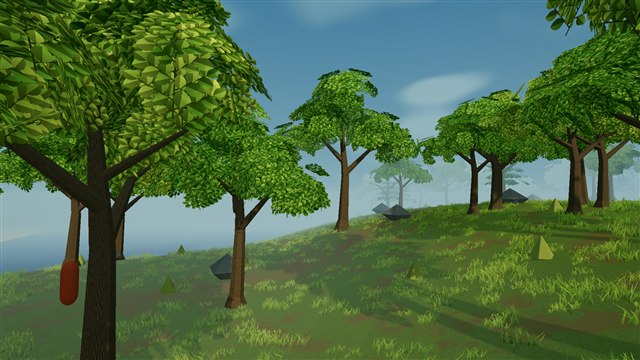
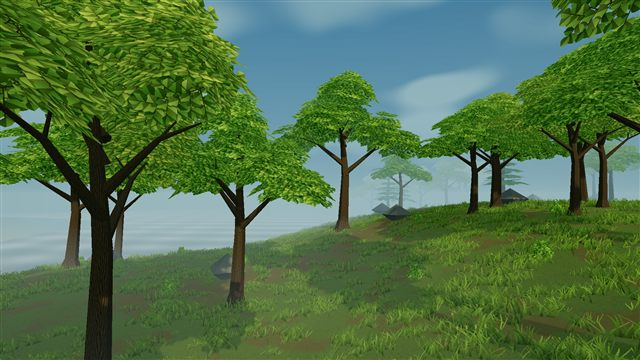
Publish ten forest, shoreline, and shelter lighting studies

diff --git a/index.html b/index.html
@@ -1,29 +1,16 @@
 <!doctype html>
-<html lang="en">
-<head>
-  <meta charset="utf-8">
-  <meta name="viewport" content="width=device-width, initial-scale=1">
-  <meta name="theme-color" content="#101a15">
-  <meta name="description" content="Latest in-engine environment screenshots from the Survival game prototype.">
-  <title>Survival — Environment Gallery</title>
-  <link rel="stylesheet" href="style.css">
-</head>
-<body>
-  <header class="wrap masthead"><a class="brand" href="index.html">SURVIVAL <span>DEVELOPMENT GALLERY</span></a><span class="edition">26 OCT 2026</span></header>
-  <main class="wrap">
-    <section class="intro">
-      <p class="eyebrow">ENVIRONMENT STUDY / 01</p>
-      <h1>Into the clearing.</h1>
-      <p class="lead">The latest in-engine views of our survival game prototype: textured foliage, fine grass, and a misty forest edge.</p>
-      <p class="hint">Choose a view. Tap its image for the full-resolution screenshot.</p>
-    </section>
-    <section class="gallery" aria-label="Environment screenshots">
-      <a class="card" href="clearing.html"><img src="images/clearing-thumb.jpg" width="640" height="360" alt="Third-person view across a grassy forest clearing with leafy trees" fetchpriority="high"><div class="card-body"><span class="number">01 / CLEARING</span><h2>The first steps</h2><p>The playable camera view through the meadow.</p><span class="open">Open view <span aria-hidden="true">↗</span></span></div></a>
-      <a class="card" href="canopy.html"><img src="images/canopy-thumb.jpg" width="640" height="360" alt="Close view of textured bark and overlapping leaf sprays" loading="lazy"><div class="card-body"><span class="number">02 / CANOPY</span><h2>Under the leaves</h2><p>Leaf silhouettes, branches, and atmospheric depth.</p><span class="open">Open view <span aria-hidden="true">↗</span></span></div></a>
-      <a class="card" href="grass.html"><img src="images/grass-thumb.jpg" width="640" height="360" alt="Low camera angle through curved grass blades toward the forest" loading="lazy"><div class="card-body"><span class="number">03 / GROUND COVER</span><h2>A closer look</h2><p>Fine grass sprays and ground textures at a low angle.</p><span class="open">Open view <span aria-hidden="true">↗</span></span></div></a>
-    </section>
-    <aside class="note"><strong>A work in progress.</strong> These are development screenshots of original procedural assets. This gallery contains screenshots; it is not a playable mobile version of the game.</aside>
-  </main>
-  <footer class="wrap footer">SURVIVAL <span>Environment development · October 26, 2026</span></footer>
-</body>
-</html>
+<html lang="en"><head><meta charset="utf-8"><meta name="viewport" content="width=device-width, initial-scale=1"><meta name="theme-color" content="#101a15"><meta name="description" content="Ten in-engine forest, coast, and shelter screenshots from the Survival prototype."><title>Survival - Environment Gallery</title><link rel="stylesheet" href="style.css?v=2"></head>
+<body><header class="wrap masthead"><a class="brand" href="index.html">SURVIVAL <span>DEVELOPMENT GALLERY</span></a><span class="edition">ENVIRONMENT STUDY 02</span></header>
+<main class="wrap"><section class="intro"><p class="eyebrow">FOREST / COAST / SHELTER</p><h1>A world in different light.</h1><p class="lead">Ten fresh in-engine views: revised tree crowns, fuller ground cover, coastal water, and the first shelter lighting studies.</p><p class="hint">Choose a view. Tap its image for the full-resolution screenshot. The canopy page also includes the earlier build for comparison.</p></section>
+<section class="gallery" aria-label="Environment screenshots"><a class="card" href="clearing.html"><img src="images/clearing-thumb.jpg?v=2" width="640" height="360" alt="The ordinary player camera, with fuller grass and revised trees." fetchpriority="high"><div class="card-body"><span class="number">DAY / PLAYABLE VIEW</span><h2>Through the clearing</h2><p>The ordinary player camera, with fuller grass and revised trees.</p><span class="open">Open view <span aria-hidden="true">&#8599;</span></span></div></a>
+<a class="card" href="canopy.html"><img src="images/canopy-thumb.jpg?v=2" width="640" height="360" alt="Irregular crowns, finer leaf sprays, and stronger branch structure. Compare the earlier study below." loading="lazy"><div class="card-body"><span class="number">DAY / CANOPY COMPARISON</span><h2>Under the branches</h2><p>Irregular crowns, finer leaf sprays, and stronger branch structure. Compare the earlier study below.</p><span class="open">Open view <span aria-hidden="true">&#8599;</span></span></div></a>
+<a class="card" href="grass.html"><img src="images/grass-thumb.jpg?v=2" width="640" height="360" alt="Mixed grass heights, small pale flowers, and a shared ground palette." loading="lazy"><div class="card-body"><span class="number">DAY / GROUND DETAIL</span><h2>At meadow height</h2><p>Mixed grass heights, small pale flowers, and a shared ground palette.</p><span class="open">Open view <span aria-hidden="true">&#8599;</span></span></div></a>
+<a class="card" href="coast.html"><img src="images/coast-thumb.jpg?v=2" width="640" height="360" alt="The shoreline and a simple ripple-lighting water study. Water remains visual only." loading="lazy"><div class="card-body"><span class="number">DAY / COAST</span><h2>Where the meadow meets water</h2><p>The shoreline and a simple ripple-lighting water study. Water remains visual only.</p><span class="open">Open view <span aria-hidden="true">&#8599;</span></span></div></a>
+<a class="card" href="ridge.html"><img src="images/ridge-thumb.jpg?v=2" width="640" height="360" alt="A wide coastal panorama with mixed tree silhouettes and distant mist." loading="lazy"><div class="card-body"><span class="number">DAY / LANDSCAPE</span><h2>Across the forest edge</h2><p>A wide coastal panorama with mixed tree silhouettes and distant mist.</p><span class="open">Open view <span aria-hidden="true">&#8599;</span></span></div></a>
+<a class="card" href="dawn.html"><img src="images/dawn-thumb.jpg?v=2" width="640" height="360" alt="A curated dawn preset: low warm sunlight, cooler ambient light, and heavier mist." loading="lazy"><div class="card-body"><span class="number">DAWN / LIGHTING STUDY</span><h2>Cool morning mist</h2><p>A curated dawn preset: low warm sunlight, cooler ambient light, and heavier mist.</p><span class="open">Open view <span aria-hidden="true">&#8599;</span></span></div></a>
+<a class="card" href="golden.html"><img src="images/golden-thumb.jpg?v=2" width="640" height="360" alt="A warm low-sun preset for checking foliage volume and long shadows." loading="lazy"><div class="card-body"><span class="number">GOLDEN HOUR / LIGHTING STUDY</span><h2>Late light in the meadow</h2><p>A warm low-sun preset for checking foliage volume and long shadows.</p><span class="open">Open view <span aria-hidden="true">&#8599;</span></span></div></a>
+<a class="card" href="overcast.html"><img src="images/overcast-thumb.jpg?v=2" width="640" height="360" alt="A softer cool-light preset that exposes silhouettes and ground detail without strong sunlight." loading="lazy"><div class="card-body"><span class="number">OVERCAST / LIGHTING STUDY</span><h2>A quieter forest path</h2><p>A softer cool-light preset that exposes silhouettes and ground detail without strong sunlight.</p><span class="open">Open view <span aria-hidden="true">&#8599;</span></span></div></a>
+<a class="card" href="shelter.html"><img src="images/shelter-thumb.jpg?v=2" width="640" height="360" alt="A staged fixture built from the existing foundation, floor, wall, doorway, and flat-roof pieces." loading="lazy"><div class="card-body"><span class="number">DAY / CONSTRUCTION STUDY</span><h2>A shelter in the clearing</h2><p>A staged fixture built from the existing foundation, floor, wall, doorway, and flat-roof pieces.</p><span class="open">Open view <span aria-hidden="true">&#8599;</span></span></div></a>
+<a class="card" href="dusk.html"><img src="images/dusk-thumb.jpg?v=2" width="640" height="360" alt="The same prototype pieces at dusk with a capture-only ember and point-light fixture. Campfire gameplay is not implemented." loading="lazy"><div class="card-body"><span class="number">DUSK / LOCAL LIGHT STUDY</span><h2>Warmth beside the shelter</h2><p>The same prototype pieces at dusk with a capture-only ember and point-light fixture. Campfire gameplay is not implemented.</p><span class="open">Open view <span aria-hidden="true">&#8599;</span></span></div></a></section>
+<aside class="note"><strong>A work in progress.</strong> Original procedural assets, rendered in the game. Dawn, golden-hour, overcast, and dusk images use curated art presets; they do not demonstrate a day/night or weather cycle. Shelter scenes are staged from existing build pieces, and the dusk fire is a lighting fixture. This is a screenshot gallery, not a playable mobile game.</aside></main>
+<footer class="wrap footer">SURVIVAL <span>Environment study 02 - ten views</span></footer></body></html>

diff --git a/canopy.html b/canopy.html
@@ -1,10 +1,7 @@
 <!doctype html>
-<html lang="en">
-<head><meta charset="utf-8"><meta name="viewport" content="width=device-width, initial-scale=1"><meta name="theme-color" content="#101a15"><meta name="description" content="Textured leaf sprays create gaps in the canopy. Bark, branching, and mist establish the forest edge."><title>Under the leaves — Survival Gallery</title><link rel="stylesheet" href="style.css"></head>
-<body>
-<header class="wrap masthead"><a class="brand" href="index.html">SURVIVAL <span>DEVELOPMENT GALLERY</span></a><span class="edition">26 OCT 2026</span></header>
-<main class="wrap"><section class="view-header"><a class="back" href="index.html">← All views</a><p class="eyebrow">02 / CANOPY</p><h1>Under the leaves</h1><p>Textured leaf sprays create gaps in the canopy. Bark, branching, and mist establish the forest edge.</p></section>
-<figure class="image-frame"><a href="images/canopy-full.png" aria-label="Open full-resolution screenshot"><img src="images/canopy.jpg" width="1280" height="720" alt="Textured bark and dense leaf sprays in the forest canopy" fetchpriority="high"></a><figcaption>Tap the image to open the original 1920 × 1080 screenshot. Pinch to zoom in your browser.</figcaption></figure>
-<nav class="view-nav" aria-label="Other screenshots"><a href="clearing.html">← Clearing</a><a class="next" href="grass.html">Ground cover →</a></nav>
-</main><footer class="wrap footer">SURVIVAL <span>Prototype screenshot · October 26, 2026</span></footer>
-</body></html>
+<html lang="en"><head><meta charset="utf-8"><meta name="viewport" content="width=device-width, initial-scale=1"><meta name="theme-color" content="#101a15"><title>Under the branches - Survival Gallery</title><link rel="stylesheet" href="style.css?v=2"></head>
+<body><header class="wrap masthead"><a class="brand" href="index.html">SURVIVAL <span>DEVELOPMENT GALLERY</span></a><span class="edition">ENVIRONMENT STUDY 02</span></header>
+<main class="wrap"><section class="view-header"><a class="back" href="index.html">&#8592; All views</a><p class="eyebrow">DAY / CANOPY COMPARISON</p><h1>Under the branches</h1><p>Irregular crowns, finer leaf sprays, and stronger branch structure. Compare the earlier study below.</p></section>
+<figure class="image-frame"><a href="images/canopy-full.png?v=2"><img src="images/canopy.jpg?v=2" width="1280" height="720" alt="Irregular crowns, finer leaf sprays, and stronger branch structure. Compare the earlier study below." fetchpriority="high"></a><figcaption>Captured in Unity at 1920 &#215; 1080. Tap the image for the original PNG. Lighting variants are curated art presets, not a running day/night or weather system.</figcaption></figure><section class="view-header"><h2>Earlier procedural study</h2><p>The previous canopy capture uses the same camera position. This is an earlier build, not another current lighting preset.</p></section><figure class="image-frame"><a href="images/before-canopy-full.png"><img src="images/before-canopy.jpg" width="1280" height="720" alt="Earlier canopy study with repeated branch shapes and larger leaf patterns" loading="lazy"></a><figcaption>Earlier study. Tap for the original screenshot.</figcaption></figure>
+<nav class="view-nav" aria-label="Screenshot navigation"><a href="clearing.html">&#8592; Through the clearing</a><a class="next" href="grass.html">At meadow height &#8594;</a></nav></main>
+<footer class="wrap footer">SURVIVAL <span>In-engine development captures</span></footer></body></html>

diff --git a/clearing.html b/clearing.html
@@ -1,10 +1,7 @@
 <!doctype html>
-<html lang="en">
-<head><meta charset="utf-8"><meta name="viewport" content="width=device-width, initial-scale=1"><meta name="theme-color" content="#101a15"><meta name="description" content="The third-person view across the forest clearing, with textured foliage, a worn trail, and fine ground cover."><title>The first steps — Survival Gallery</title><link rel="stylesheet" href="style.css"></head>
-<body>
-<header class="wrap masthead"><a class="brand" href="index.html">SURVIVAL <span>DEVELOPMENT GALLERY</span></a><span class="edition">26 OCT 2026</span></header>
-<main class="wrap"><section class="view-header"><a class="back" href="index.html">← All views</a><p class="eyebrow">01 / CLEARING</p><h1>The first steps</h1><p>The third-person view across the forest clearing, with textured foliage, a worn trail, and fine ground cover.</p></section>
-<figure class="image-frame"><a href="images/clearing-full.png" aria-label="Open full-resolution screenshot"><img src="images/clearing.jpg" width="1280" height="720" alt="Third-person view of a misty forest clearing" fetchpriority="high"></a><figcaption>Tap the image to open the original 1920 × 1080 screenshot. Pinch to zoom in your browser.</figcaption></figure>
-<nav class="view-nav" aria-label="Other screenshots"><a href="grass.html">← Ground cover</a><a class="next" href="canopy.html">Canopy →</a></nav>
-</main><footer class="wrap footer">SURVIVAL <span>Prototype screenshot · October 26, 2026</span></footer>
-</body></html>
+<html lang="en"><head><meta charset="utf-8"><meta name="viewport" content="width=device-width, initial-scale=1"><meta name="theme-color" content="#101a15"><title>Through the clearing - Survival Gallery</title><link rel="stylesheet" href="style.css?v=2"></head>
+<body><header class="wrap masthead"><a class="brand" href="index.html">SURVIVAL <span>DEVELOPMENT GALLERY</span></a><span class="edition">ENVIRONMENT STUDY 02</span></header>
+<main class="wrap"><section class="view-header"><a class="back" href="index.html">&#8592; All views</a><p class="eyebrow">DAY / PLAYABLE VIEW</p><h1>Through the clearing</h1><p>The ordinary player camera, with fuller grass and revised trees.</p></section>
+<figure class="image-frame"><a href="images/clearing-full.png?v=2"><img src="images/clearing.jpg?v=2" width="1280" height="720" alt="The ordinary player camera, with fuller grass and revised trees." fetchpriority="high"></a><figcaption>Captured in Unity at 1920 &#215; 1080. Tap the image for the original PNG. Lighting variants are curated art presets, not a running day/night or weather system.</figcaption></figure>
+<nav class="view-nav" aria-label="Screenshot navigation"><a href="dusk.html">&#8592; Warmth beside the shelter</a><a class="next" href="canopy.html">Under the branches &#8594;</a></nav></main>
+<footer class="wrap footer">SURVIVAL <span>In-engine development captures</span></footer></body></html>

diff --git a/grass.html b/grass.html
@@ -1,10 +1,7 @@
 <!doctype html>
-<html lang="en">
-<head><meta charset="utf-8"><meta name="viewport" content="width=device-width, initial-scale=1"><meta name="theme-color" content="#101a15"><meta name="description" content="A low-angle study of curved grass sprays, ground textures, and the tree silhouettes beyond."><title>A closer look — Survival Gallery</title><link rel="stylesheet" href="style.css"></head>
-<body>
-<header class="wrap masthead"><a class="brand" href="index.html">SURVIVAL <span>DEVELOPMENT GALLERY</span></a><span class="edition">26 OCT 2026</span></header>
-<main class="wrap"><section class="view-header"><a class="back" href="index.html">← All views</a><p class="eyebrow">03 / GROUND COVER</p><h1>A closer look</h1><p>A low-angle study of curved grass sprays, ground textures, and the tree silhouettes beyond.</p></section>
-<figure class="image-frame"><a href="images/grass-full.png" aria-label="Open full-resolution screenshot"><img src="images/grass.jpg" width="1280" height="720" alt="Low-angle view of grass blades and surrounding trees" fetchpriority="high"></a><figcaption>Tap the image to open the original 1920 × 1080 screenshot. Pinch to zoom in your browser.</figcaption></figure>
-<nav class="view-nav" aria-label="Other screenshots"><a href="canopy.html">← Canopy</a><a class="next" href="clearing.html">Clearing →</a></nav>
-</main><footer class="wrap footer">SURVIVAL <span>Prototype screenshot · October 26, 2026</span></footer>
-</body></html>
+<html lang="en"><head><meta charset="utf-8"><meta name="viewport" content="width=device-width, initial-scale=1"><meta name="theme-color" content="#101a15"><title>At meadow height - Survival Gallery</title><link rel="stylesheet" href="style.css?v=2"></head>
+<body><header class="wrap masthead"><a class="brand" href="index.html">SURVIVAL <span>DEVELOPMENT GALLERY</span></a><span class="edition">ENVIRONMENT STUDY 02</span></header>
+<main class="wrap"><section class="view-header"><a class="back" href="index.html">&#8592; All views</a><p class="eyebrow">DAY / GROUND DETAIL</p><h1>At meadow height</h1><p>Mixed grass heights, small pale flowers, and a shared ground palette.</p></section>
+<figure class="image-frame"><a href="images/grass-full.png?v=2"><img src="images/grass.jpg?v=2" width="1280" height="720" alt="Mixed grass heights, small pale flowers, and a shared ground palette." fetchpriority="high"></a><figcaption>Captured in Unity at 1920 &#215; 1080. Tap the image for the original PNG. Lighting variants are curated art presets, not a running day/night or weather system.</figcaption></figure>
+<nav class="view-nav" aria-label="Screenshot navigation"><a href="canopy.html">&#8592; Under the branches</a><a class="next" href="coast.html">Where the meadow meets water &#8594;</a></nav></main>
+<footer class="wrap footer">SURVIVAL <span>In-engine development captures</span></footer></body></html>

diff --git a/dusk.html b/dusk.html
@@ -1,0 +1,7 @@
+<!doctype html>
+<html lang="en"><head><meta charset="utf-8"><meta name="viewport" content="width=device-width, initial-scale=1"><meta name="theme-color" content="#101a15"><title>Warmth beside the shelter - Survival Gallery</title><link rel="stylesheet" href="style.css?v=2"></head>
+<body><header class="wrap masthead"><a class="brand" href="index.html">SURVIVAL <span>DEVELOPMENT GALLERY</span></a><span class="edition">ENVIRONMENT STUDY 02</span></header>
+<main class="wrap"><section class="view-header"><a class="back" href="index.html">&#8592; All views</a><p class="eyebrow">DUSK / LOCAL LIGHT STUDY</p><h1>Warmth beside the shelter</h1><p>The same prototype pieces at dusk with a capture-only ember and point-light fixture. Campfire gameplay is not implemented.</p></section>
+<figure class="image-frame"><a href="images/dusk-full.png?v=2"><img src="images/dusk.jpg?v=2" width="1280" height="720" alt="The same prototype pieces at dusk with a capture-only ember and point-light fixture. Campfire gameplay is not implemented." fetchpriority="high"></a><figcaption>Captured in Unity at 1920 &#215; 1080. Tap the image for the original PNG. Lighting variants are curated art presets, not a running day/night or weather system.</figcaption></figure>
+<nav class="view-nav" aria-label="Screenshot navigation"><a href="shelter.html">&#8592; A shelter in the clearing</a><a class="next" href="clearing.html">Through the clearing &#8594;</a></nav></main>
+<footer class="wrap footer">SURVIVAL <span>In-engine development captures</span></footer></body></html>

diff --git a/shelter.html b/shelter.html
@@ -1,0 +1,7 @@
+<!doctype html>
+<html lang="en"><head><meta charset="utf-8"><meta name="viewport" content="width=device-width, initial-scale=1"><meta name="theme-color" content="#101a15"><title>A shelter in the clearing - Survival Gallery</title><link rel="stylesheet" href="style.css?v=2"></head>
+<body><header class="wrap masthead"><a class="brand" href="index.html">SURVIVAL <span>DEVELOPMENT GALLERY</span></a><span class="edition">ENVIRONMENT STUDY 02</span></header>
+<main class="wrap"><section class="view-header"><a class="back" href="index.html">&#8592; All views</a><p class="eyebrow">DAY / CONSTRUCTION STUDY</p><h1>A shelter in the clearing</h1><p>A staged fixture built from the existing foundation, floor, wall, doorway, and flat-roof pieces.</p></section>
+<figure class="image-frame"><a href="images/shelter-full.png?v=2"><img src="images/shelter.jpg?v=2" width="1280" height="720" alt="A staged fixture built from the existing foundation, floor, wall, doorway, and flat-roof pieces." fetchpriority="high"></a><figcaption>Captured in Unity at 1920 &#215; 1080. Tap the image for the original PNG. Lighting variants are curated art presets, not a running day/night or weather system.</figcaption></figure>
+<nav class="view-nav" aria-label="Screenshot navigation"><a href="overcast.html">&#8592; A quieter forest path</a><a class="next" href="dusk.html">Warmth beside the shelter &#8594;</a></nav></main>
+<footer class="wrap footer">SURVIVAL <span>In-engine development captures</span></footer></body></html>

diff --git a/overcast.html b/overcast.html
@@ -1,0 +1,7 @@
+<!doctype html>
+<html lang="en"><head><meta charset="utf-8"><meta name="viewport" content="width=device-width, initial-scale=1"><meta name="theme-color" content="#101a15"><title>A quieter forest path - Survival Gallery</title><link rel="stylesheet" href="style.css?v=2"></head>
+<body><header class="wrap masthead"><a class="brand" href="index.html">SURVIVAL <span>DEVELOPMENT GALLERY</span></a><span class="edition">ENVIRONMENT STUDY 02</span></header>
+<main class="wrap"><section class="view-header"><a class="back" href="index.html">&#8592; All views</a><p class="eyebrow">OVERCAST / LIGHTING STUDY</p><h1>A quieter forest path</h1><p>A softer cool-light preset that exposes silhouettes and ground detail without strong sunlight.</p></section>
+<figure class="image-frame"><a href="images/overcast-full.png?v=2"><img src="images/overcast.jpg?v=2" width="1280" height="720" alt="A softer cool-light preset that exposes silhouettes and ground detail without strong sunlight." fetchpriority="high"></a><figcaption>Captured in Unity at 1920 &#215; 1080. Tap the image for the original PNG. Lighting variants are curated art presets, not a running day/night or weather system.</figcaption></figure>
+<nav class="view-nav" aria-label="Screenshot navigation"><a href="golden.html">&#8592; Late light in the meadow</a><a class="next" href="shelter.html">A shelter in the clearing &#8594;</a></nav></main>
+<footer class="wrap footer">SURVIVAL <span>In-engine development captures</span></footer></body></html>

diff --git a/coast.html b/coast.html
@@ -1,0 +1,7 @@
+<!doctype html>
+<html lang="en"><head><meta charset="utf-8"><meta name="viewport" content="width=device-width, initial-scale=1"><meta name="theme-color" content="#101a15"><title>Where the meadow meets water - Survival Gallery</title><link rel="stylesheet" href="style.css?v=2"></head>
+<body><header class="wrap masthead"><a class="brand" href="index.html">SURVIVAL <span>DEVELOPMENT GALLERY</span></a><span class="edition">ENVIRONMENT STUDY 02</span></header>
+<main class="wrap"><section class="view-header"><a class="back" href="index.html">&#8592; All views</a><p class="eyebrow">DAY / COAST</p><h1>Where the meadow meets water</h1><p>The shoreline and a simple ripple-lighting water study. Water remains visual only.</p></section>
+<figure class="image-frame"><a href="images/coast-full.png?v=2"><img src="images/coast.jpg?v=2" width="1280" height="720" alt="The shoreline and a simple ripple-lighting water study. Water remains visual only." fetchpriority="high"></a><figcaption>Captured in Unity at 1920 &#215; 1080. Tap the image for the original PNG. Lighting variants are curated art presets, not a running day/night or weather system.</figcaption></figure>
+<nav class="view-nav" aria-label="Screenshot navigation"><a href="grass.html">&#8592; At meadow height</a><a class="next" href="ridge.html">Across the forest edge &#8594;</a></nav></main>
+<footer class="wrap footer">SURVIVAL <span>In-engine development captures</span></footer></body></html>

diff --git a/dawn.html b/dawn.html
@@ -1,0 +1,7 @@
+<!doctype html>
+<html lang="en"><head><meta charset="utf-8"><meta name="viewport" content="width=device-width, initial-scale=1"><meta name="theme-color" content="#101a15"><title>Cool morning mist - Survival Gallery</title><link rel="stylesheet" href="style.css?v=2"></head>
+<body><header class="wrap masthead"><a class="brand" href="index.html">SURVIVAL <span>DEVELOPMENT GALLERY</span></a><span class="edition">ENVIRONMENT STUDY 02</span></header>
+<main class="wrap"><section class="view-header"><a class="back" href="index.html">&#8592; All views</a><p class="eyebrow">DAWN / LIGHTING STUDY</p><h1>Cool morning mist</h1><p>A curated dawn preset: low warm sunlight, cooler ambient light, and heavier mist.</p></section>
+<figure class="image-frame"><a href="images/dawn-full.png?v=2"><img src="images/dawn.jpg?v=2" width="1280" height="720" alt="A curated dawn preset: low warm sunlight, cooler ambient light, and heavier mist." fetchpriority="high"></a><figcaption>Captured in Unity at 1920 &#215; 1080. Tap the image for the original PNG. Lighting variants are curated art presets, not a running day/night or weather system.</figcaption></figure>
+<nav class="view-nav" aria-label="Screenshot navigation"><a href="ridge.html">&#8592; Across the forest edge</a><a class="next" href="golden.html">Late light in the meadow &#8594;</a></nav></main>
+<footer class="wrap footer">SURVIVAL <span>In-engine development captures</span></footer></body></html>

diff --git a/golden.html b/golden.html
@@ -1,0 +1,7 @@
+<!doctype html>
+<html lang="en"><head><meta charset="utf-8"><meta name="viewport" content="width=device-width, initial-scale=1"><meta name="theme-color" content="#101a15"><title>Late light in the meadow - Survival Gallery</title><link rel="stylesheet" href="style.css?v=2"></head>
+<body><header class="wrap masthead"><a class="brand" href="index.html">SURVIVAL <span>DEVELOPMENT GALLERY</span></a><span class="edition">ENVIRONMENT STUDY 02</span></header>
+<main class="wrap"><section class="view-header"><a class="back" href="index.html">&#8592; All views</a><p class="eyebrow">GOLDEN HOUR / LIGHTING STUDY</p><h1>Late light in the meadow</h1><p>A warm low-sun preset for checking foliage volume and long shadows.</p></section>
+<figure class="image-frame"><a href="images/golden-full.png?v=2"><img src="images/golden.jpg?v=2" width="1280" height="720" alt="A warm low-sun preset for checking foliage volume and long shadows." fetchpriority="high"></a><figcaption>Captured in Unity at 1920 &#215; 1080. Tap the image for the original PNG. Lighting variants are curated art presets, not a running day/night or weather system.</figcaption></figure>
+<nav class="view-nav" aria-label="Screenshot navigation"><a href="dawn.html">&#8592; Cool morning mist</a><a class="next" href="overcast.html">A quieter forest path &#8594;</a></nav></main>
+<footer class="wrap footer">SURVIVAL <span>In-engine development captures</span></footer></body></html>

diff --git a/ridge.html b/ridge.html
@@ -1,0 +1,7 @@
+<!doctype html>
+<html lang="en"><head><meta charset="utf-8"><meta name="viewport" content="width=device-width, initial-scale=1"><meta name="theme-color" content="#101a15"><title>Across the forest edge - Survival Gallery</title><link rel="stylesheet" href="style.css?v=2"></head>
+<body><header class="wrap masthead"><a class="brand" href="index.html">SURVIVAL <span>DEVELOPMENT GALLERY</span></a><span class="edition">ENVIRONMENT STUDY 02</span></header>
+<main class="wrap"><section class="view-header"><a class="back" href="index.html">&#8592; All views</a><p class="eyebrow">DAY / LANDSCAPE</p><h1>Across the forest edge</h1><p>A wide coastal panorama with mixed tree silhouettes and distant mist.</p></section>
+<figure class="image-frame"><a href="images/ridge-full.png?v=2"><img src="images/ridge.jpg?v=2" width="1280" height="720" alt="A wide coastal panorama with mixed tree silhouettes and distant mist." fetchpriority="high"></a><figcaption>Captured in Unity at 1920 &#215; 1080. Tap the image for the original PNG. Lighting variants are curated art presets, not a running day/night or weather system.</figcaption></figure>
+<nav class="view-nav" aria-label="Screenshot navigation"><a href="coast.html">&#8592; Where the meadow meets water</a><a class="next" href="dawn.html">Cool morning mist &#8594;</a></nav></main>
+<footer class="wrap footer">SURVIVAL <span>In-engine development captures</span></footer></body></html>
